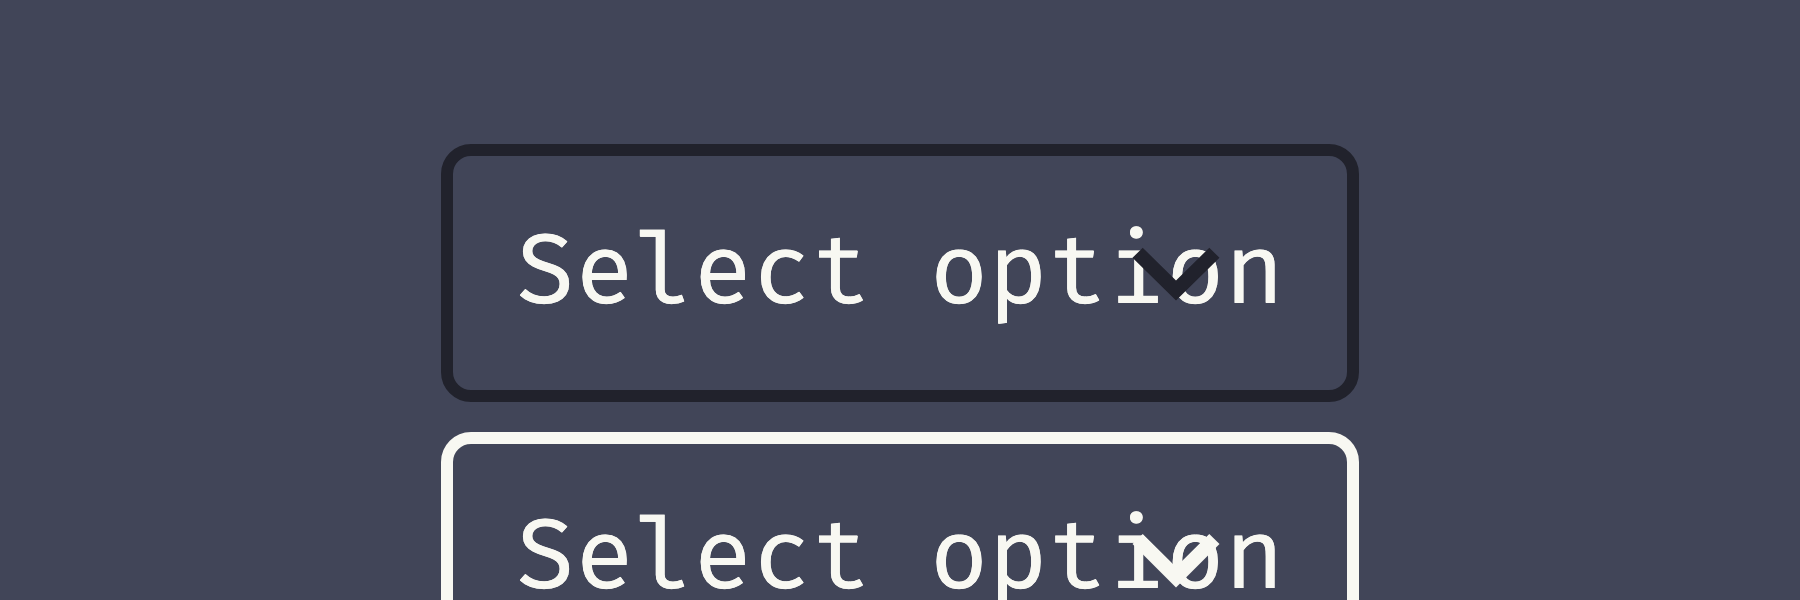
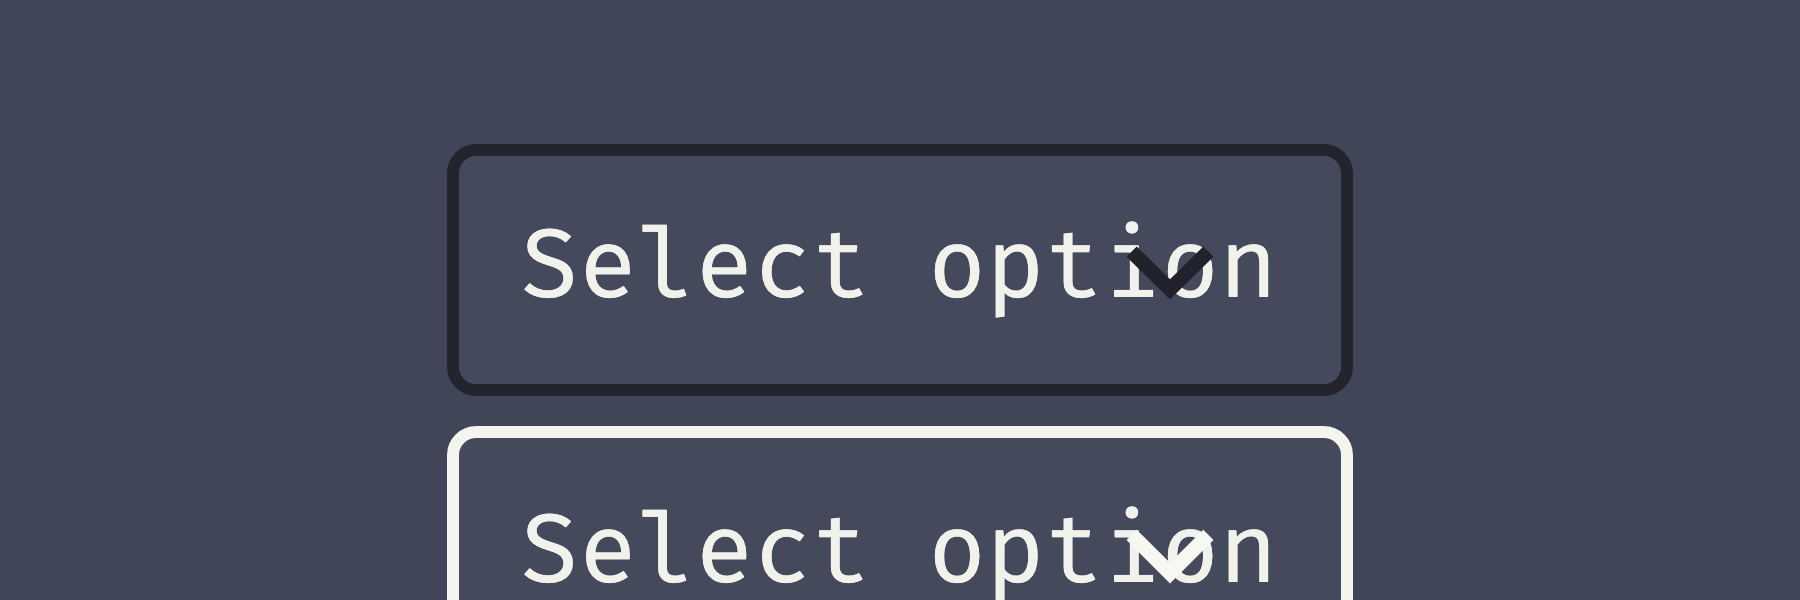
Remove black accent color

diff --git a/src/documentation/site-docs.ts b/src/documentation/site-docs.ts
@@ -16,6 +16,8 @@ interface Documentation {
   variations: () => Array<SnapshotBuilder>
 }
 
+jest.setTimeout(10000)
+
 export function siteDocs<T>(
   componentClass: React.FunctionComponent<T>,
   documentation: Documentation

diff --git a/src/base/colors.ts b/src/base/colors.ts
@@ -1,7 +1,6 @@
 import { mapValues } from 'lodash'
 
 export const colors = {
-  black: 'drac-bg-black',
   white: 'drac-bg-white',
   cyan: 'drac-bg-cyan',
   green: 'drac-bg-green',
